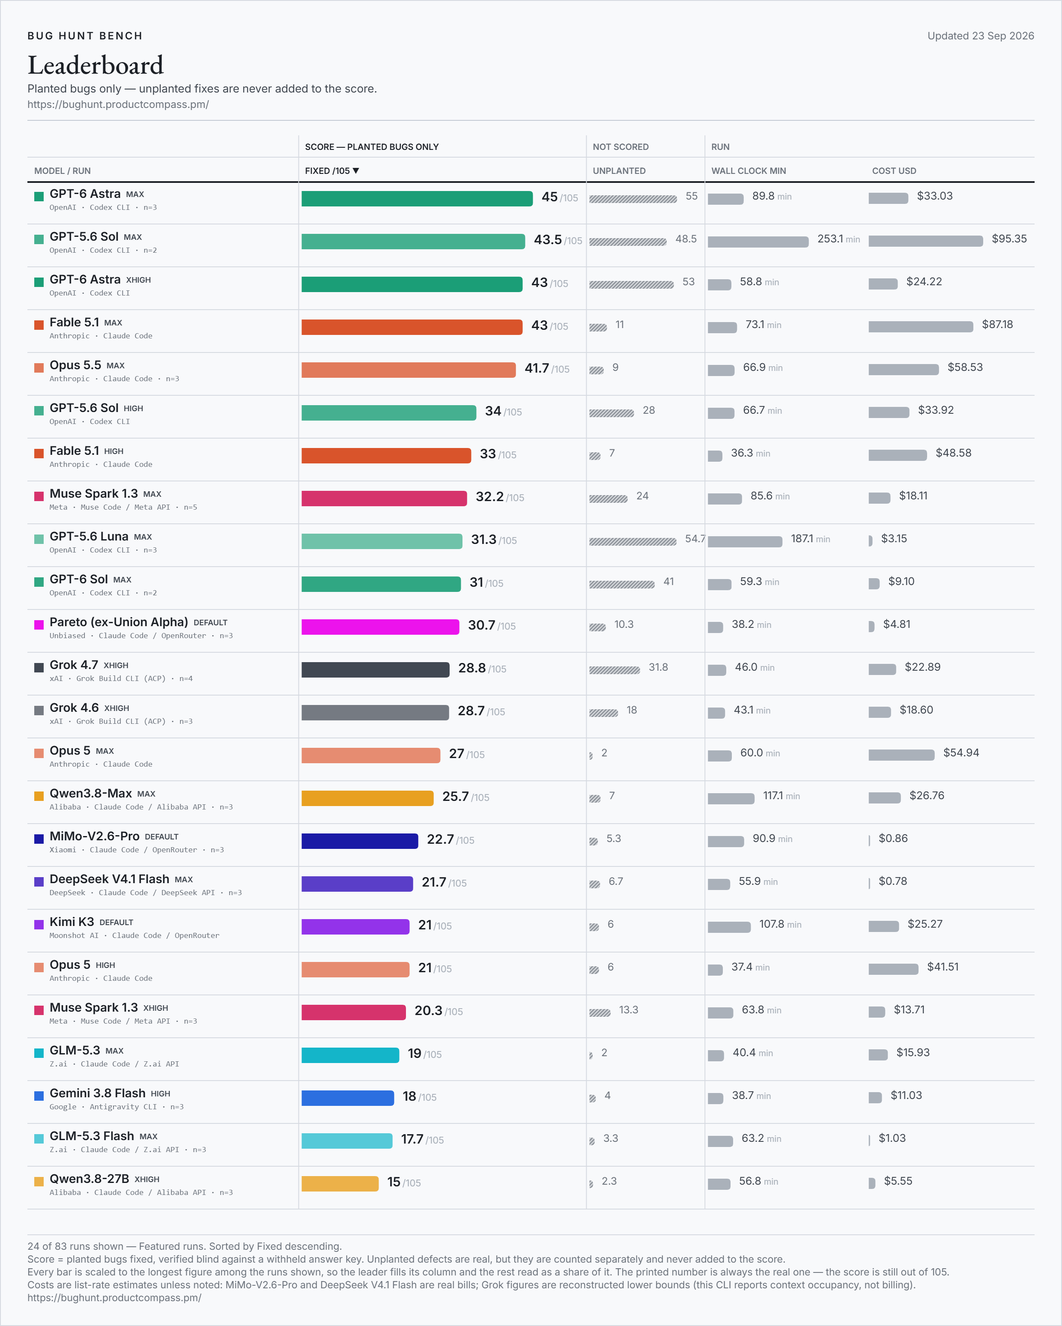
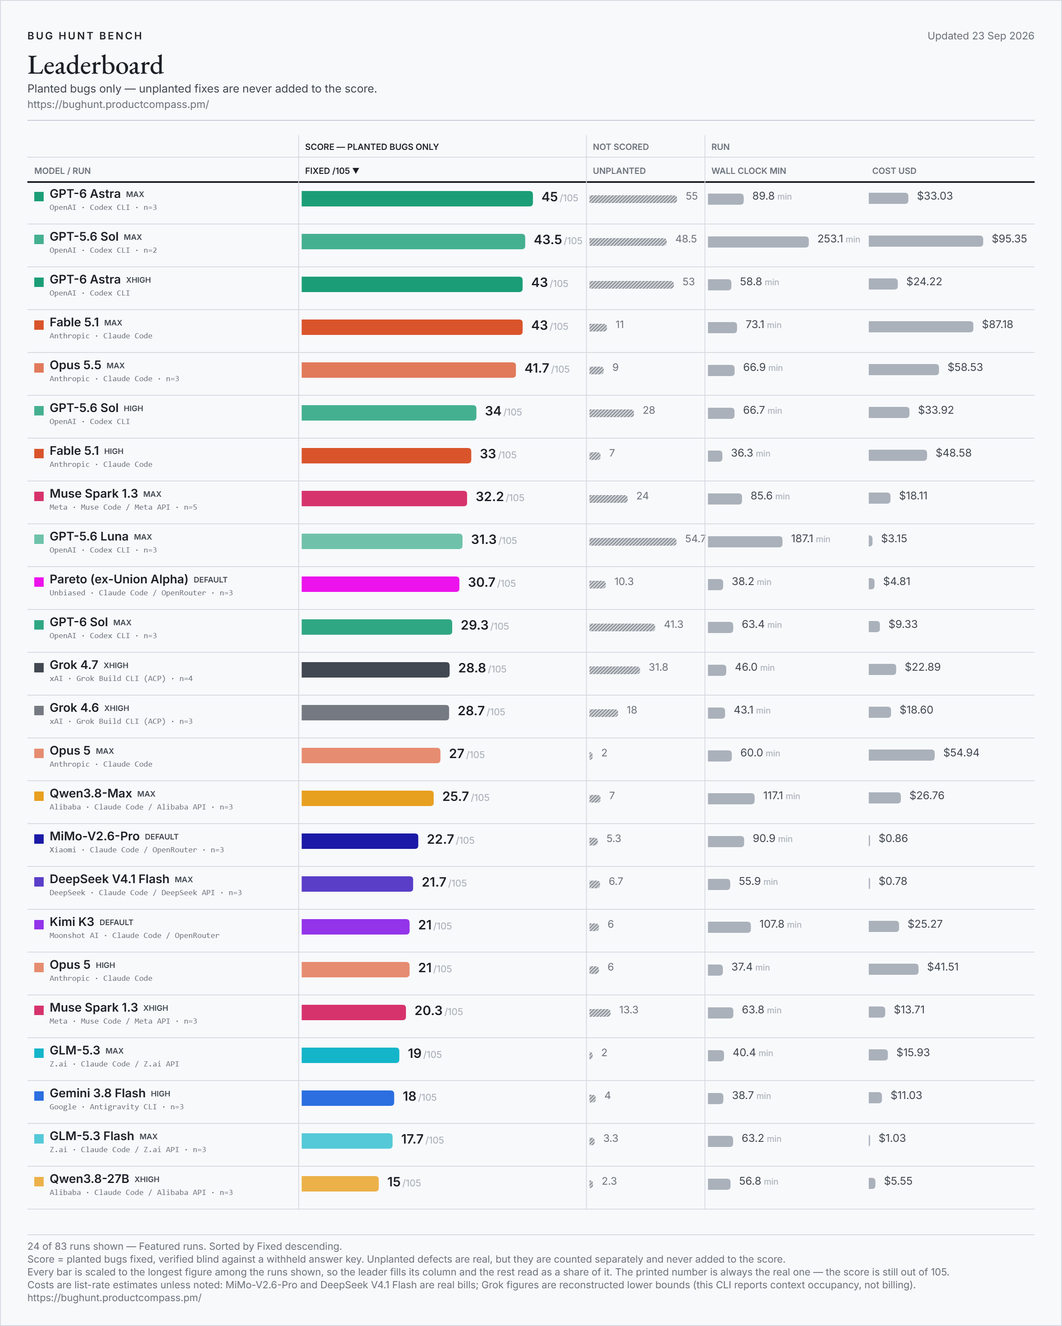
bug hunt bench: GPT-6 Sol (max effort) - mean of 3 (29.3/105)

diff --git a/results/run-notes.md b/results/run-notes.md
@@ -2,7 +2,7 @@
 
 Every row on the board, with the note and caveat it carries. Generated from `data/benchmark.json` by `bench_golive.py` - do not edit by hand.
 
-Updated Sep 23, 2026 · 131 rows from 203 scored runs. Superseded rows are listed last.
+Updated Sep 23, 2026 · 132 rows from 206 scored runs. Superseded rows are listed last.
 
 ## GPT-6 Astra (max effort) - mean of 3
 
@@ -96,14 +96,6 @@ Anthropic's Opus 5.5 at high effort through Claude Code on the first-party API, 
 
 GPT-5.6 Luna at max effort through OpenAI's own Codex CLI, published as the MEAN OF THREE INDEPENDENT RUNS. Runs scored 33, 30 and 31 of 105 (repo 1: 17, 16, 15 of 45 - repo 2: 16, 14, 16 of 60). Mean 31.3, spread 3. *** THIS SUPERSEDES THE MEAN OF TWO (31.5 of 105) *** a third independent run - held back earlier today by a Grok judge-bridge fault unrelated to Luna itself - completes the originally planned n=3. The mean moved from 31.5 to 31.3; the three runs span 30 to 33, and that span is the honest width of this measurement. *** WALL AND COST *** Walls 85.8, 254.3, 221.5 minutes, mean 187.2; cost $1.80, $3.85, $3.80, mean $3.15. COST IS A TOKEN ESTIMATE at OpenAI's published rates, not an invoice - the Codex CLI on a subscription does not expose a per-run bill, so this column is `list` and comparable only to other list rows. *** GENUINE EXTRAS *** 31, 57 and 76 across the three runs, mean 54.7 - real defects found in the repos that are not part of the planted set, rising noticeably across the replicates; reported because a model that finds bugs nobody planted is doing something the planted total cannot see, not folded into the scored total. *** THE TIER IS FIRST-PARTY AND THAT IS WHY IT CAN BE ASSERTED *** max is Luna's top tier on OpenAI's own endpoint, which validates and separates its effort levels rather than silently clamping an unknown string the way several third-party routes on this board do. *** THE JUDGE IS NOT THIS BOARD'S DEFAULT, BY RULE *** A model may never judge itself or a sibling, and this is an OpenAI model, so the default Codex judge is disqualified - and so is any other first-party GPT-5.6 checkpoint on this board (e.g. Sol, Terra), since the rule is about shared weights, not identity-knowledge alone. All six legs were judged by grok-4.5, blinded to the arm's identity. The runs themselves shared the machine with legs from other vendors, which the row's wall marker discloses; scores, tokens and cost are untouched by that - only the clock is. *** RECEIPTS *** All six legs exited 0. Legs SEQUENTIAL within every run.
 
-## GPT-6 Sol (max effort) - mean of 2
-
-**31 / 105** · repo 1 17/45 · repo 2 14/60 · 41 unplanted · 59.3 min · $9.10 · `max` · Codex CLI · mean of 2 runs · 2026-09-23
-
-**Caveat.** Two runs of an identical configuration scoring 32 and 30 of 105 - spread 2. Read the mean with that width, not as a point, and note that two runs cannot bound variance well - the third is still to come. It also runs a Codex build one version newer than every other OpenAI row here, because the build the others use refuses this model; the harness is therefore not held fixed across that comparison. Cost is a list-rate estimate and a floor - the long-context surcharge is not modelled. Wall figures are contended.
-
-OpenAI's GPT-6 Sol at max effort through OpenAI's own Codex CLI, on a ChatGPT account - the same auth path as every other Sol, Astra, Terra and Luna row here, NOT the metered API. Published as the MEAN OF TWO INDEPENDENT RUNS. Runs scored 32 and 30 of 105 (repo 1: 18, 16 of 45 - repo 2: 14, 14 of 60). Mean 31.0, spread 2. *** THIS SUPERSEDES GPT-6 SOL (MAX EFFORT) (32 OF 105) *** *** THE NEWER CHECKPOINT STILL DOES NOT LEAD ITS OWN FAMILY *** GPT-6 Astra publishes 45 of 105 at max (mean of 3) and 43 at xhigh on this same benchmark; GPT-5.6 Sol publishes 43.5 at max (mean of 2). This row lands at 31.0, below all three, at a fraction of the cost. The single run that first showed this was one draw on a board that has measured a 13-point spread between two runs of one identical max-effort configuration - which is exactly why it was replicated rather than left to stand. *** THE REPLICATES ARE BYTE-IDENTICAL TO THE FIRST RUN *** same model string gpt-6-sol, same effort, same timeout, same pinned executable, same price table, same blind judge. Only the arm name differs, so the spread above is run-to-run variance and nothing else. *** IT FINDS A LOT OF THINGS NOBODY PLANTED *** 48 and 34 genuine extras across the runs, mean 41.0 - real defects in the repos that are not part of the planted set, among the highest counts on this board from a row in the middle of the scoring table. Extras are reported separately and never folded into the score, but a model that flags this many unplanted defects while fixing fewer planted ones is spending its attention somewhere the planted total cannot see. *** IT KILLED AN ALL-TIME SURVIVOR *** the first run fixed a planted bug that no scored pass by any model had ever fixed before - a settings-persistence ordering defect where the stored value is written before the live switch it is supposed to describe has landed. That is a first for this row and it stands regardless of where the mean settles. *** THIS ROW RUNS A DIFFERENT CLI BUILD FROM EVERY OTHER OPENAI ROW, UNAVOIDABLY *** the Codex build the rest of this board uses (0.154.0) refuses this model outright - 'The gpt-6-sol model is not supported when using Codex with a ChatGPT account'. 0.155.1 runs it on the same account, same auth, same machine, so the blocker was the client and not entitlement. There is no version of this measurement that holds the harness fixed against the other OpenAI rows; the choice was a one-version harness delta or no row at all. Read the comparison above with that in it. (The rejection message is generic - a deliberately fake slug returns it verbatim - so it is not evidence about any model's existence.) *** WALL AND COST *** Walls 60.4, 58.2 minutes, mean 59.3; cost $10.03, $8.17, mean $9.10. COST IS A LIST ESTIMATE AND A FLOOR - token counts at OpenAI's published short-context rates, $2 input, $0.20 cached, $10 output per million. Requests over 272K input bill 2x on input and cache and 1.5x on output, which is NOT modelled here, so any leg that crossed that line cost more than this figure says. The Codex CLI on a subscription exposes no per-run bill, hence `list`, comparable only to other list rows. *** THE JUDGE IS NOT THIS BOARD'S DEFAULT, BY RULE *** a model may never judge itself or a sibling, and the default Codex judge is an OpenAI model, so it is disqualified for this arm - as is every other first-party GPT checkpoint here, since the rule is about shared weights and not identity-knowledge. Every leg was judged by grok-4.5, blinded to the arm's identity. *** RECEIPTS *** All legs exited 0 with a report written, run SEQUENTIALLY, one repo at a time. The runs shared the laptop with legs from other vendors, which the wall marker discloses - scores, tokens and cost are untouched by that, only the clock.
-
 ## Union Alpha (stealth; free) - mean of 3
 
 **30.7 / 105** · repo 1 16/45 · repo 2 14.7/60 · 10.3 unplanted · 38.2 min · $4.81 · `default` · Claude Code / OpenRouter · mean of 3 runs · 2026-09-17
@@ -117,6 +109,14 @@ Runs scored 32, 34 and 26 of 105 (repo 1: 16, 19, 13 - repo 2: 16, 15, 13). Mean
 **Caveat.** Three runs of an identical configuration scoring 30, 30 and 31 of 105 - spread 1. Read the mean with that width, not as a point. Runs a 1M context window with zero compactions; every Opus 5 row here runs 200K and compacted, so this ladder does not compare cleanly to that one. Cost is a list-rate estimate, not an invoice. Wall figures are contended.
 
 Anthropic's Opus 5.5 at medium effort through Claude Code on the first-party API, published as the MEAN OF THREE INDEPENDENT RUNS. Runs scored 30, 30 and 31 of 105 (repo 1: 11, 14, 13 of 45 - repo 2: 19, 16, 18 of 60). Mean 30.3, spread 1. *** THIS SUPERSEDES OPUS 5.5 (MEDIUM EFFORT) - MEAN OF 2 (30.0 OF 105) *** *** WHY THE REPLICATES EXIST *** the first pass measured this ladder at one run per rung and it came out monotone - medium 30, high 32, xhigh 35, max 43. That was suggestive and nothing more: no gap in it exceeded the 13-point spread this board has measured between two runs of ONE identical max-effort configuration, so the ordering of any two adjacent rungs was unresolved and every note said so. Three runs per rung is what can resolve it, and the whole ladder is being re-measured that way rather than only its top. The board currently reads low 22.3 (n=3), medium 30.3 (n=3), high 31.7 (n=3), xhigh 36 (n=3), max 41.7 (n=3). *** THE REPLICATES ARE BYTE-IDENTICAL TO THE FIRST RUN *** same model string claude-opus-5-5[1m], same effort, same timeout, same price table, same blind judge. Only the arm name differs, so the spread above is run-to-run variance and nothing else. *** WALL AND COST *** Walls 17.2, 17.5, 16.4 minutes, mean 17.0; cost $16.55, $14.80, $15.71, mean $15.69. COST IS A LIST ESTIMATE at Anthropic's published Opus 5.5 rates - $4 input, $20 output, $0.20 cache read (a 0.05x cache multiplier unique to this model, where every other model here uses 0.1x) and $8 cache write, the 1-hour rate, which is what this harness actually writes and what the streams confirm. Not an invoice, hence `list`. *** GENUINE EXTRAS *** 15, 13 and 12 across the runs, mean 13.3 - real defects found in the repos that nobody planted, reported separately and never folded into the score. *** THE CONTEXT WINDOW *** every run here holds a 1M window and crosses zero compaction boundaries, so these rows compare cleanly to each other and NOT to the Opus 5 ladder, which ran the CLI's default 200K and compacted repeatedly mid-task. Autocompact ran at the CLI's own default throughout. *** RECEIPTS *** All legs exited 0, run SEQUENTIALLY, one repo at a time. Judge: blind Codex gpt-5.5 on every leg - an OpenAI model scoring an Anthropic one, so neither the model itself nor a sibling of it. The runs shared the laptop with legs from other vendors, which the wall marker discloses; scores, tokens and cost are untouched by that, only the clock.
+
+## GPT-6 Sol (max effort) - mean of 3
+
+**29.3 / 105** · repo 1 15.3/45 · repo 2 14/60 · 41.3 unplanted · 63.4 min · $9.33 · `max` · Codex CLI · mean of 3 runs · 2026-09-23
+
+**Caveat.** Three runs of an identical configuration scoring 32, 30 and 26 of 105 - spread 6. Read the mean with that width, not as a point. It also runs a Codex build one version newer than every other OpenAI row here, because the build the others use refuses this model; the harness is therefore not held fixed across that comparison. Cost is a list-rate estimate and a floor - the long-context surcharge is not modelled. Wall figures are contended.
+
+OpenAI's GPT-6 Sol at max effort through OpenAI's own Codex CLI, on a ChatGPT account - the same auth path as every other Sol, Astra, Terra and Luna row here, NOT the metered API. Published as the MEAN OF THREE INDEPENDENT RUNS. Runs scored 32, 30 and 26 of 105 (repo 1: 18, 16, 12 of 45 - repo 2: 14, 14, 14 of 60). Mean 29.3, spread 6. *** THIS SUPERSEDES GPT-6 SOL (MAX EFFORT) - MEAN OF 2 (31.0 OF 105) *** *** THE NEWER CHECKPOINT STILL DOES NOT LEAD ITS OWN FAMILY *** GPT-6 Astra publishes 45 (mean of 3) of 105 at max and 43 at xhigh on this same benchmark; GPT-5.6 Sol publishes 43.5 (mean of 2) at max. This row lands at 29.3, below all three, at a fraction of the cost. The single run that first showed this was one draw on a board that has measured a 13-point spread between two runs of one identical max-effort configuration - which is exactly why it was replicated rather than left to stand. *** THE REPLICATES ARE BYTE-IDENTICAL TO THE FIRST RUN *** same model string gpt-6-sol, same effort, same timeout, same pinned executable, same price table, same blind judge. Only the arm name differs, so the spread above is run-to-run variance and nothing else. *** IT FINDS A LOT OF THINGS NOBODY PLANTED *** 48, 34 and 42 genuine extras across the runs, mean 41.3 - real defects in the repos that are not part of the planted set, among the highest counts on this board from a row in the middle of the scoring table. Extras are reported separately and never folded into the score, but a model that flags this many unplanted defects while fixing fewer planted ones is spending its attention somewhere the planted total cannot see. *** IT KILLED AN ALL-TIME SURVIVOR *** the first run fixed a planted bug that no scored pass by any model had ever fixed before - a settings-persistence ordering defect where the stored value is written before the live switch it is supposed to describe has landed. That is a first for this row and it stands regardless of where the mean settles. *** THIS ROW RUNS A DIFFERENT CLI BUILD FROM EVERY OTHER OPENAI ROW, UNAVOIDABLY *** the Codex build the rest of this board uses (0.154.0) refuses this model outright - 'The gpt-6-sol model is not supported when using Codex with a ChatGPT account'. 0.155.1 runs it on the same account, same auth, same machine, so the blocker was the client and not entitlement. There is no version of this measurement that holds the harness fixed against the other OpenAI rows; the choice was a one-version harness delta or no row at all. Read the comparison above with that in it. (The rejection message is generic - a deliberately fake slug returns it verbatim - so it is not evidence about any model's existence.) *** WALL AND COST *** Walls 60.4, 58.2, 71.6 minutes, mean 63.4; cost $10.03, $8.17, $9.81, mean $9.34. COST IS A LIST ESTIMATE AND A FLOOR - token counts at OpenAI's published short-context rates, $2 input, $0.20 cached, $10 output per million. Requests over 272K input bill 2x on input and cache and 1.5x on output, which is NOT modelled here, so any leg that crossed that line cost more than this figure says. The Codex CLI on a subscription exposes no per-run bill, hence `list`, comparable only to other list rows. *** THE JUDGE IS NOT THIS BOARD'S DEFAULT, BY RULE *** a model may never judge itself or a sibling, and the default Codex judge is an OpenAI model, so it is disqualified for this arm - as is every other first-party GPT checkpoint here, since the rule is about shared weights and not identity-knowledge. Every leg was judged by grok-4.5, blinded to the arm's identity. *** RECEIPTS *** All legs exited 0 with a report written, run SEQUENTIALLY, one repo at a time. The runs shared the laptop with legs from other vendors, which the wall marker discloses - scores, tokens and cost are untouched by that, only the clock.
 
 ## GPT-5.6 Sol (medium effort)
 
@@ -667,6 +667,16 @@ Anthropic's Opus 5.5 at high effort through Claude Code on the first-party API. 
 **Caveat.** Two runs of an identical configuration scoring 33 and 30 of 105 - n=2, not the n=3 originally planned, because a third replicate's judging failed on a Grok bridge initialization error unrelated to Luna. Cost is a TOKEN ESTIMATE at list rates, not a bill, and is comparable only to other list-priced rows. Runs shared the laptop with benchmark legs from other vendors, so wall figures are contended and biased upward; scores and cost are unaffected.
 
 GPT-5.6 Luna at max effort through OpenAI's own Codex CLI, published as the MEAN OF TWO INDEPENDENT RUNS. Runs scored 33 and 30 of 105 (repo 1: 17, 16 of 45 - repo 2: 16, 14 of 60). Mean 31.5, spread 3. *** THIS SUPERSEDES A SINGLE RUN THAT WAS THE HIGHEST NUMBER ON THIS BOARD *** The earlier row said 33 of 105 from one draw, and it was FEATURED, which makes it the first number a reader meets. That is the most over-read kind of figure a benchmark can publish: nothing about it was false - it said n=1 on its face - but a top-of-board score from a single draw invites a confidence the sample cannot carry. *** WHY n=2 AND NOT n=3 *** A third replicate (gpt56lunamaxr3) was attempted and its two legs ran clean, but judging it failed identically 3 times per bench (`TimeoutError: ACP request timed out: initialize` in the Grok ACP judge bridge, before any real judging began) - a bridge/initialization problem, not a Luna problem, and not resolved before today's benchmarking window closed. This row is published honestly as n=2 rather than waiting on or faking a third value; r3 may be added as a further replicate later if the judge bridge issue is resolved. *** WALL AND COST *** Walls 85.8, 254.3 minutes, mean 170.1; cost $1.80, $3.85, mean $2.83. COST IS A TOKEN ESTIMATE at OpenAI's published rates, not an invoice - the Codex CLI on a subscription does not expose a per-run bill, so this column is `list` and comparable only to other list rows. *** GENUINE EXTRAS *** 31 and 57 across the two runs, mean 44.0 - real defects found in the repos that are not part of the planted set. Not scored, reported because a model that finds bugs nobody planted is doing something the planted total cannot see. *** THE TIER IS FIRST-PARTY AND THAT IS WHY IT CAN BE ASSERTED *** max is Luna's top tier on OpenAI's own endpoint, which validates and separates its effort levels rather than silently clamping an unknown string the way several third-party routes on this board do. *** THE JUDGE IS NOT THIS BOARD'S DEFAULT, BY RULE *** A model may never judge itself or a sibling, and this is an OpenAI model, so the default Codex judge is disqualified. All four legs were judged by grok-4.5, blinded to the arm's identity. The runs themselves shared the machine with legs from other vendors, which the row's wall marker discloses; scores, tokens and cost are untouched by that - only the clock is. *** RECEIPTS *** All four legs exited 0. Legs SEQUENTIAL within every run.
+
+## GPT-6 Sol (max effort) - mean of 2
+
+**31 / 105** · repo 1 17/45 · repo 2 14/60 · 41 unplanted · 59.3 min · $9.10 · `max` · Codex CLI · mean of 2 runs · 2026-09-23
+
+**Superseded.** Superseded 2026-09-23 by the mean of 3 (29.3 of 105). This row reported 31.0 of 105 as the mean of 2 runs. The replicates are byte-identical re-runs; across 3 the runs span 26 to 32. Nothing here is retracted - it is kept as the receipt for what the board showed before the extra run.
+
+**Caveat.** Two runs of an identical configuration scoring 32 and 30 of 105 - spread 2. Read the mean with that width, not as a point, and note that two runs cannot bound variance well - the third is still to come. It also runs a Codex build one version newer than every other OpenAI row here, because the build the others use refuses this model; the harness is therefore not held fixed across that comparison. Cost is a list-rate estimate and a floor - the long-context surcharge is not modelled. Wall figures are contended.
+
+OpenAI's GPT-6 Sol at max effort through OpenAI's own Codex CLI, on a ChatGPT account - the same auth path as every other Sol, Astra, Terra and Luna row here, NOT the metered API. Published as the MEAN OF TWO INDEPENDENT RUNS. Runs scored 32 and 30 of 105 (repo 1: 18, 16 of 45 - repo 2: 14, 14 of 60). Mean 31.0, spread 2. *** THIS SUPERSEDES GPT-6 SOL (MAX EFFORT) (32 OF 105) *** *** THE NEWER CHECKPOINT STILL DOES NOT LEAD ITS OWN FAMILY *** GPT-6 Astra publishes 45 of 105 at max (mean of 3) and 43 at xhigh on this same benchmark; GPT-5.6 Sol publishes 43.5 at max (mean of 2). This row lands at 31.0, below all three, at a fraction of the cost. The single run that first showed this was one draw on a board that has measured a 13-point spread between two runs of one identical max-effort configuration - which is exactly why it was replicated rather than left to stand. *** THE REPLICATES ARE BYTE-IDENTICAL TO THE FIRST RUN *** same model string gpt-6-sol, same effort, same timeout, same pinned executable, same price table, same blind judge. Only the arm name differs, so the spread above is run-to-run variance and nothing else. *** IT FINDS A LOT OF THINGS NOBODY PLANTED *** 48 and 34 genuine extras across the runs, mean 41.0 - real defects in the repos that are not part of the planted set, among the highest counts on this board from a row in the middle of the scoring table. Extras are reported separately and never folded into the score, but a model that flags this many unplanted defects while fixing fewer planted ones is spending its attention somewhere the planted total cannot see. *** IT KILLED AN ALL-TIME SURVIVOR *** the first run fixed a planted bug that no scored pass by any model had ever fixed before - a settings-persistence ordering defect where the stored value is written before the live switch it is supposed to describe has landed. That is a first for this row and it stands regardless of where the mean settles. *** THIS ROW RUNS A DIFFERENT CLI BUILD FROM EVERY OTHER OPENAI ROW, UNAVOIDABLY *** the Codex build the rest of this board uses (0.154.0) refuses this model outright - 'The gpt-6-sol model is not supported when using Codex with a ChatGPT account'. 0.155.1 runs it on the same account, same auth, same machine, so the blocker was the client and not entitlement. There is no version of this measurement that holds the harness fixed against the other OpenAI rows; the choice was a one-version harness delta or no row at all. Read the comparison above with that in it. (The rejection message is generic - a deliberately fake slug returns it verbatim - so it is not evidence about any model's existence.) *** WALL AND COST *** Walls 60.4, 58.2 minutes, mean 59.3; cost $10.03, $8.17, mean $9.10. COST IS A LIST ESTIMATE AND A FLOOR - token counts at OpenAI's published short-context rates, $2 input, $0.20 cached, $10 output per million. Requests over 272K input bill 2x on input and cache and 1.5x on output, which is NOT modelled here, so any leg that crossed that line cost more than this figure says. The Codex CLI on a subscription exposes no per-run bill, hence `list`, comparable only to other list rows. *** THE JUDGE IS NOT THIS BOARD'S DEFAULT, BY RULE *** a model may never judge itself or a sibling, and the default Codex judge is an OpenAI model, so it is disqualified for this arm - as is every other first-party GPT checkpoint here, since the rule is about shared weights and not identity-knowledge. Every leg was judged by grok-4.5, blinded to the arm's identity. *** RECEIPTS *** All legs exited 0 with a report written, run SEQUENTIALLY, one repo at a time. The runs shared the laptop with legs from other vendors, which the wall marker discloses - scores, tokens and cost are untouched by that, only the clock.
 
 ## GPT-5.6 Sol
 

diff --git a/README.md b/README.md
@@ -9,7 +9,7 @@ If the numbers save you a benchmark run of your own, **star this repo** — that
 <!-- leaderboard:start -->
 ![Bug Hunt Bench leaderboard, the featured runs, updated Sep 23, 2026](assets/leaderboard.png?v=2026-09-23-fe124555)
 
-**Updated Sep 23, 2026 · 131 rows from 203 scored runs · 37 models · 31 of 105 bugs have never been fixed by any model.**
+**Updated Sep 23, 2026 · 132 rows from 206 scored runs · 37 models · 31 of 105 bugs have never been fixed by any model.**
 
 **Current leader:** GPT-6 Astra at `max` effort — **45 / 105** (22/45 on repo 1, 23/60 on repo 2).
 
@@ -32,9 +32,9 @@ If the numbers save you a benchmark run of your own, **star this repo** — that
 | 13 | GPT-5.6 Terra | Codex CLI | max | 1 | **32** | 16 | 16 | 45 | 160 min | $27.98 | 2026-08-27 |
 | 14 | Opus 5.5 | Claude Code | high | 3 | **31.7** | 13 | 18.7 | 10.7 | 24 min | $22.25 | 2026-09-23 |
 | 15 | GPT-5.6 Luna | Codex CLI | max | 3 | **31.3** | 16 | 15.3 | 54.7 | 187 min | $3.15 | 2026-09-22 |
-| 16 | GPT-6 Sol | Codex CLI | max | 2 | **31** | 17 | 14 | 41 | 59 min | $9.10 | 2026-09-23 |
-| 17 | Pareto (ex-Union Alpha) | Claude Code / OpenRouter | default | 3 | **30.7** | 16 | 14.7 | 10.3 | 38 min | $4.81 | 2026-09-17 |
-| 18 | Opus 5.5 | Claude Code | medium | 3 | **30.3** | 12.7 | 17.7 | 13.3 | 17 min | $15.68 | 2026-09-23 |
+| 16 | Pareto (ex-Union Alpha) | Claude Code / OpenRouter | default | 3 | **30.7** | 16 | 14.7 | 10.3 | 38 min | $4.81 | 2026-09-17 |
+| 17 | Opus 5.5 | Claude Code | medium | 3 | **30.3** | 12.7 | 17.7 | 13.3 | 17 min | $15.68 | 2026-09-23 |
+| 18 | GPT-6 Sol | Codex CLI | max | 3 | **29.3** | 15.3 | 14 | 41.3 | 63 min | $9.33 | 2026-09-23 |
 | 19 | GPT-5.6 Sol | Codex CLI | medium | 1 | **29** | 13 | 16 | 24 | 48 min | $15.77 | 2026-09-06 |
 | 20 | Fable 5.1 | Claude Code | low | 1 | **29** | 13 | 16 | 6 | 33 min | $33.00 | 2026-09-02 |
 | 21 | Fable 5.1 | Claude Code | xhigh | 1 | **29** | 13 | 16 | 4 | 60 min | $53.61 | 2026-09-10 |
@@ -106,7 +106,7 @@ If the numbers save you a benchmark run of your own, **star this repo** — that
 Extras are real, unplanted defects a model fixed on the way; they are counted and never added to the score. Costs are token estimates at published list rates unless tagged **bill** (an actual invoice or credits delta) or **floor** (a reconstructed lower bound). `default` effort means the serving path had no working effort dial; *ran lower* marks a run whose CLI quietly replaced the requested tier. Wall clock is repo 1 plus repo 2 agent time, dependency install excluded.
 Every row's full note, caveat and supersession history is in [results/run-notes.md](https://github.com/phuryn/bug-hunt-bench/blob/main/results/run-notes.md); the runs behind each one are in the metrics CSVs.
 
-48 superseded re-runs stay in the CSVs and on the [live board](https://bughunt.productcompass.pm/?preset=all) but are left off this table.
+49 superseded re-runs stay in the CSVs and on the [live board](https://bughunt.productcompass.pm/?preset=all) but are left off this table.
 <!-- leaderboard:end -->
 
 ## What Bug Hunt Bench is
